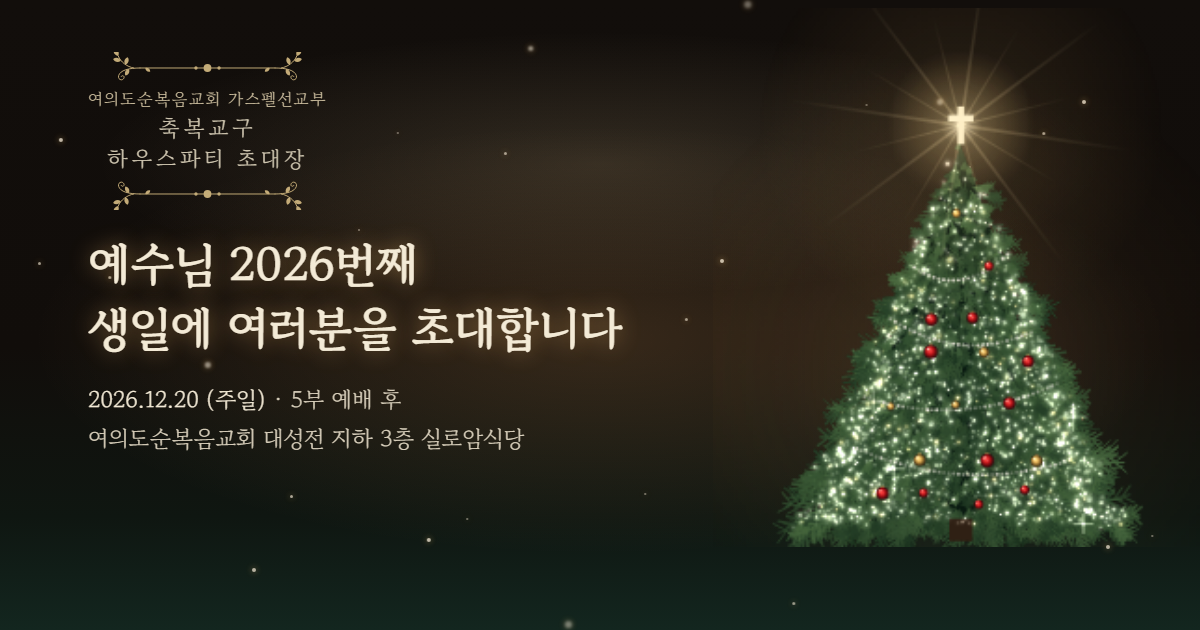
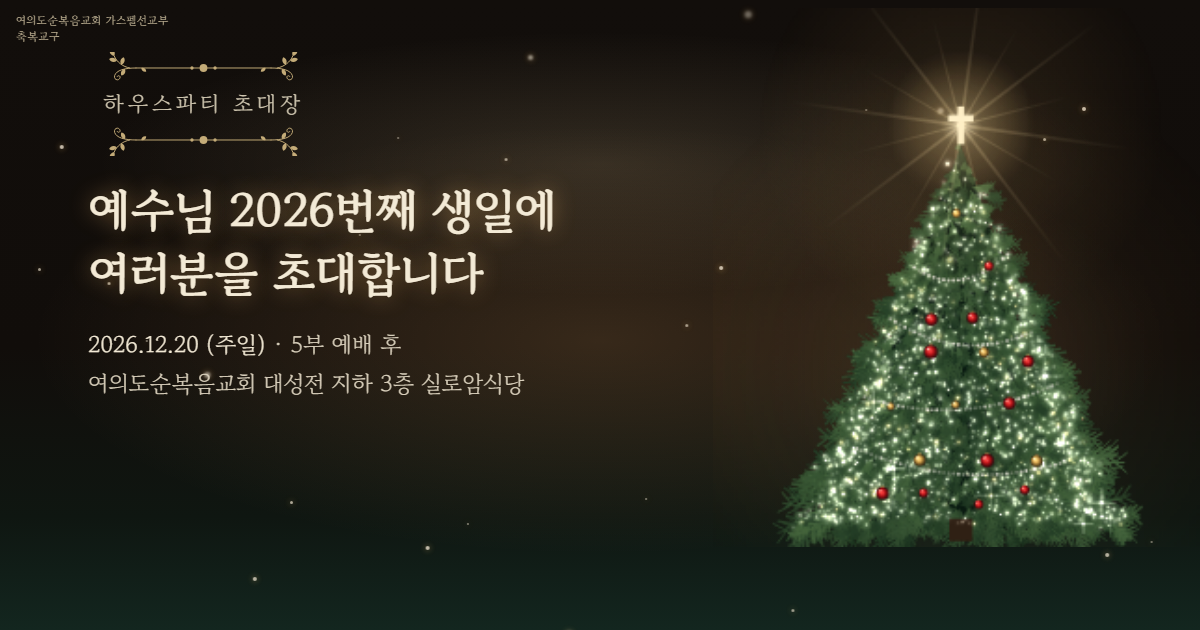
초대장 업데이트 2026-11-25 18:52

diff --git a/index.html b/index.html
@@ -5,12 +5,12 @@
 <meta name="viewport" content="width=device-width,initial-scale=1,viewport-fit=cover">
 <title>축복교구 하우스파티 · 예수님 2026번째 생일에 여러분을 초대합니다</title>
 <meta name="description" content="2026.12.20(주일) 5부 예배 후, 여의도순복음교회 대성전 지하 3층 실로암식당">
-<meta name="build" content="be33aedfae">
+<meta name="build" content="412d3c0bbb">
 <meta property="og:type" content="website">
 <meta property="og:title" content="축복교구 하우스파티 · 예수님 2026번째 생일에 여러분을 초대합니다">
 <meta property="og:description" content="2026.12.20(주일) 5부 예배 후, 여의도순복음교회 대성전 지하 3층 실로암식당">
 <meta property="og:url" content="https://channy33.github.io/house-party/">
-<meta property="og:image" content="https://channy33.github.io/house-party/og.png?v=e6b82368">
+<meta property="og:image" content="https://channy33.github.io/house-party/og.png?v=8cde4491">
 <meta property="og:image:width" content="1200">
 <meta property="og:image:height" content="630">
 <meta property="og:image:alt" content="축복교구 하우스파티 · 예수님 2026번째 생일에 여러분을 초대합니다">
@@ -144,6 +144,20 @@
     text-align: center;
   }
   .badge p { margin: 0; line-height: 1.4; }
+  /* 왼쪽 위, 공유 버튼과 같은 줄에 작게 */
+  .org {
+    position: absolute;
+    z-index: 5;
+    top: 12px;
+    left: max(16px, env(safe-area-inset-left, 0px));
+    margin: 0;
+    font-family: var(--display);
+    font-size: .7rem;
+    line-height: 1.45;
+    letter-spacing: .04em;
+    color: #cdbf9f;
+    text-align: left;
+  }
   .badge .badge__org { font-size: .8em; letter-spacing: .08em; color: #cdbf9f; }
   .badge .badge__name { font-size: 1.06em; letter-spacing: .16em; }
   /* 잎사귀 덩굴 장식 — 위아래로 글을 감싼다 (아래는 뒤집어서) */
@@ -297,16 +311,16 @@
   .tree-wrap {
     position: relative;
     z-index: 2;
-    /* 화면 높이에 맞추되, 폭은 화면 폭의 78%를 넘지 않게 */
-    height: max(15rem, min(calc(100vh - 24.5rem), calc((min(100vw, 30rem) - 2rem) * 1.054)));
-    height: max(15rem, min(calc(100svh - 24.5rem), calc((min(100vw, 30rem) - 2rem) * 1.054)));
+    /* 화면 높이에 맞추되, 폭은 화면 폭의 86%를 넘지 않게 */
+    height: max(15rem, min(calc(100vh - 22rem), calc((min(100vw, 30rem) - 2rem) * 1.162)));
+    height: max(15rem, min(calc(100svh - 22rem), calc((min(100vw, 30rem) - 2rem) * 1.162)));
     aspect-ratio: .74;
   }
   /* 키 큰 화면에서는 '초대장 보기' 단추가 말씀 아래 가운데에 뜨므로 그 자리도 남긴다 */
   @media (min-height: 781px) {
     .tree-wrap {
-      height: max(15rem, min(calc(100vh - 27.6rem), calc((min(100vw, 30rem) - 2rem) * 1.054)));
-      height: max(15rem, min(calc(100svh - 27.6rem), calc((min(100vw, 30rem) - 2rem) * 1.054)));
+      height: max(15rem, min(calc(100vh - 25.1rem), calc((min(100vw, 30rem) - 2rem) * 1.162)));
+      height: max(15rem, min(calc(100svh - 25.1rem), calc((min(100vw, 30rem) - 2rem) * 1.162)));
     }
     margin-top: .7rem;
   }
@@ -840,17 +854,16 @@
         <span>QR 공유</span>
       </button>
     </div>
+    <p class="org">여의도순복음교회 가스펠선교부<br>축복교구</p>
     <div class="badge">
       <svg class="badge__orn badge__orn--top" viewBox="0 0 260 36" aria-hidden="true"><use href="#flourish"/></svg>
-      <p class="badge__org">여의도순복음교회 가스펠선교부</p>
-      <p class="badge__name">축복교구</p>
       <p class="badge__name">하우스파티 초대장</p>
       <svg class="badge__orn badge__orn--bottom" viewBox="0 0 260 36" aria-hidden="true"><use href="#flourish"/></svg>
     </div>
     <!-- 안내 문구와 제목은 한 자리를 나눠 쓴다: 처음엔 안내만, 십자가를 켜면 제목으로 바뀐다 -->
     <div class="headline">
       <p class="hint" id="hint">트리 꼭대기 십자가를 누르면 초대장을 볼 수 있어요</p>
-      <h1 class="title">예수님 2026번째<br>생일에 여러분을 초대합니다</h1>
+      <h1 class="title">예수님 2026번째 생일에<br>여러분을 초대합니다</h1>
     </div>
     <div class="tree-wrap" id="tree-wrap">
       <canvas class="tree-canvas" id="tree-canvas" role="img" aria-label="작은 전구가 촘촘히 빛나는 성탄 트리와 꼭대기의 십자가"></canvas>
